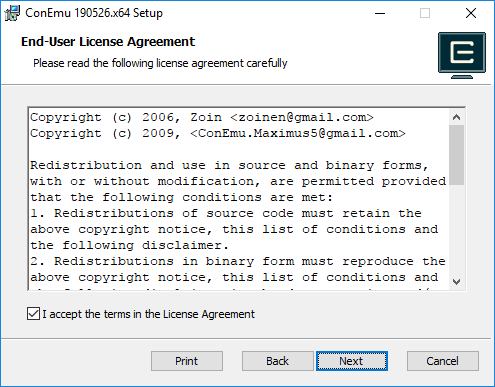
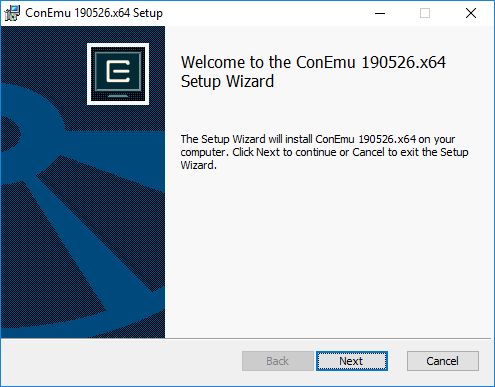
Update command line

diff --git a/command_line/readme.md b/command_line/readme.md
@@ -12,13 +12,17 @@
 
 1. Download the ConEmu installer: https://conemu.github.io
 
-1. Run the installer and click on the "Next" button:
+1. Run the installer and select "x64":
 
     ![Screenshot](images/conemu_install_01.png?raw=true)
 
-1. Check "I accept the terms in the License Agreement" and click on the "Next" button:
+1. Click on the "Next" button:
 
     ![Screenshot](images/conemu_install_02.png?raw=true)
+
+1. Check "I accept the terms in the License Agreement" and click on the "Next" button:
+
+    ![Screenshot](images/conemu_install_03.png?raw=true)
 
 1. Unselect the following:
 
@@ -35,33 +39,33 @@
 
     And click on the "Next" button:
 
-    ![Screenshot](images/conemu_install_03.png?raw=true)
+    ![Screenshot](images/conemu_install_04.png?raw=true)
 
 1. Click on the "Install" button:
 
-    ![Screenshot](images/conemu_install_04.png?raw=true)
+    ![Screenshot](images/conemu_install_05.png?raw=true)
 
 1. Click on the "Finish" button:
 
-    ![Screenshot](images/conemu_install_05.png?raw=true)
+    ![Screenshot](images/conemu_install_06.png?raw=true)
 
 ## Install Clink
 
 1. Download the Clink ZIP: https://mridgers.github.io/clink/
 
-1. Extract the ZIP into the folder `%PROGRAMFILES%\ConEmu\ConEmu\clink\` (open the "Readme.txt" file contained in the same folder for further details).
+1. Extract the ZIP into the folder `%PROGRAMFILES%\ConEmu\ConEmu\clink\` (open the "Readme.txt" file contained in the same folder for more details).
 
 ## Configure ConEmu
 
-Run ConEmu for the first time and in the "fast configuration" dialog check "Single instance mode (use existing window instead of running new instance)", select "Stable" automatic updates and click on the "OK" button:
+Open ConEmu for the first time and in the "fast configuration" dialog check "Single instance mode (use existing window instead of running new instance)", select "Stable" automatic updates and click on the "OK" button:
 
 ![Screenshot](images/conemu_first_run.png?raw=true)
 
-Open ConEmu settings and change the following:
+Open ConEmu, go to settings and change the following:
 
 ### Settings > General > Size & Pos
 
-Uncheck "Show & store current window size and position" and "Auto save window size and position on exit". Set window "Width" to `100`, "Height" to `30`, "X" to `100` and "Y" to `100`:
+Uncheck "Show & store current window size and position" and "Auto save window size and position on exit". Set "Window size (cells, pixels or percents)" to `100x30` and "Window position (pixels)" to `100,100`:
 
 ![Screenshot](images/conemu_settings_general_size_&_pos.png?raw=true)
 
@@ -131,7 +135,7 @@ Finally, click on the "Save settings" button.
 
 ## Install MSYS2
 
-1. Download the MSYS2 x86_64 installer: https://www.msys2.org
+1. Download the MSYS2 "x86_64" installer: https://www.msys2.org
 
 1. Run the installer and click on the "Next" button:
 
@@ -151,21 +155,21 @@ Finally, click on the "Save settings" button.
 
 ## Add MSYS2 to ConEmu
 
-1. Run ConEmu, open settings, select "Startup > Tasks" and click on the "Add/refresh default tasks..." button:
+1. Open ConEmu, go to settings, select "Startup > Tasks" and click on the "Add/refresh default tasks..." button:
 
-    ![Screenshot](images/conemu_add_task_01.png?raw=true)
+    ![Screenshot](images/conemu_add_msys2_01.png?raw=true)
 
 1. Select "Refresh default tasks":
 
-    ![Screenshot](images/conemu_add_task_02.png?raw=true)
+    ![Screenshot](images/conemu_add_msys2_02.png?raw=true)
 
 1. A new task with the name `{Bash::Msys2-64}` will appear. Click on the "Up" and "Down" buttons to change the task position in the list and click on the "Save settings" button:
 
-    ![Screenshot](images/conemu_add_task_03.png?raw=true)
+    ![Screenshot](images/conemu_add_msys2_03.png?raw=true)
 
 ## Update MSYS2 packages
 
-1. Run ConEmu and open `{Bash::Msys2-64}` in a new tab.
+1. Open ConEmu and create a new `{Bash::Msys2-64}` tab.
 
 1. Run the following command to upgrade the packages database:
     ```
